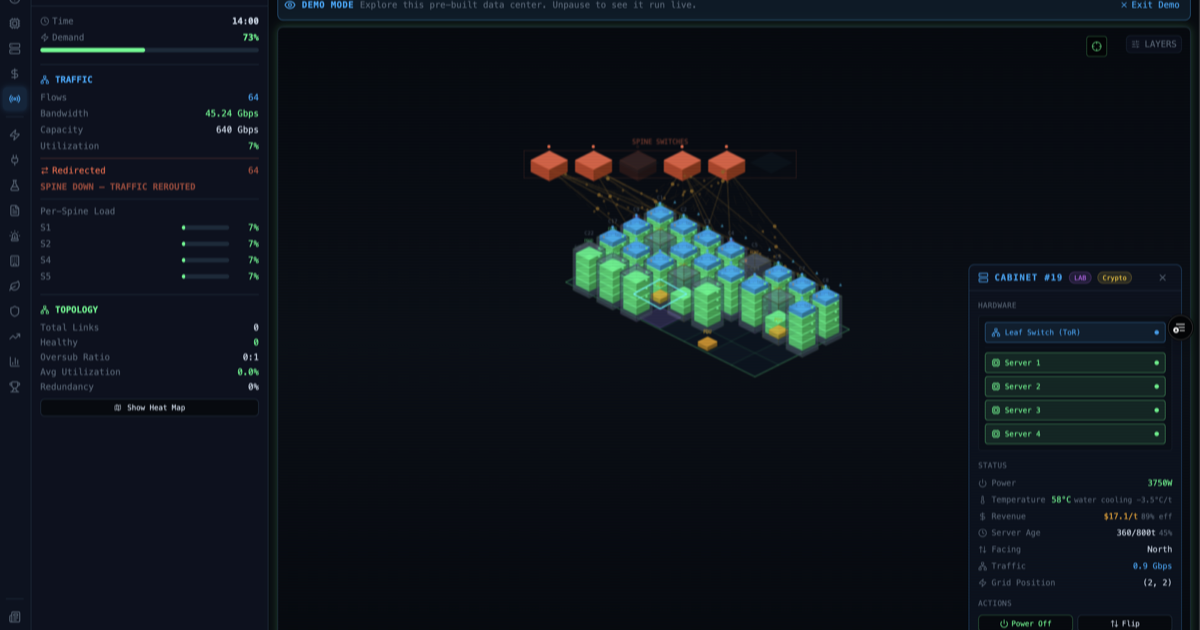
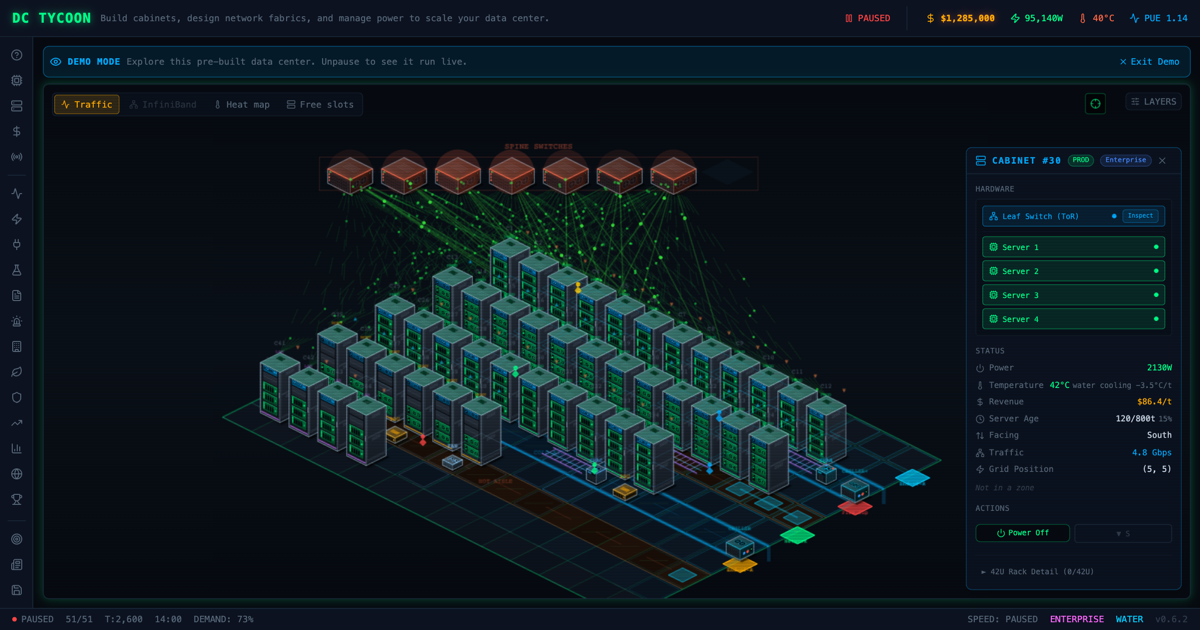
chore: refresh the social share image with the v2 hardware art
Recaptured from the enterprise demo (traffic on, a cabinet's detail panel
open) and added ?v=0.6.2 to the og:image, twitter:image and JSON-LD image
URLs so link previews fetch the new image instead of a cached copy.

Claude-Session: https://claude.ai/code/session_01GE7Uv9shEwnL7Ld6xk1bHz

diff --git a/index.html b/index.html
@@ -22,7 +22,7 @@
     <meta property="og:url" content="https://kevinreber.github.io/data-center-tycoon/" />
     <meta property="og:title" content="Data Center Tycoon — Free Browser Data Center Simulation Game" />
     <meta property="og:description" content="Build and manage your own data center empire. Place server racks, design network fabrics, balance power and cooling, handle incidents, and scale globally across 15 regions. Free, no download required." />
-    <meta property="og:image" content="https://kevinreber.github.io/data-center-tycoon/og-image.png" />
+    <meta property="og:image" content="https://kevinreber.github.io/data-center-tycoon/og-image.png?v=0.6.2" />
     <meta property="og:image:width" content="1200" />
     <meta property="og:image:height" content="630" />
     <meta property="og:image:alt" content="Isometric view of a data center with glowing server racks and network connections in Data Center Tycoon" />
@@ -33,7 +33,7 @@
     <meta name="twitter:card" content="summary_large_image" />
     <meta name="twitter:title" content="Data Center Tycoon — Free Browser Data Center Simulation Game" />
     <meta name="twitter:description" content="Build and manage your own data center empire. Place server racks, design network fabrics, balance power and cooling, and scale globally. Free, no download." />
-    <meta name="twitter:image" content="https://kevinreber.github.io/data-center-tycoon/og-image.png" />
+    <meta name="twitter:image" content="https://kevinreber.github.io/data-center-tycoon/og-image.png?v=0.6.2" />
     <meta name="twitter:image:alt" content="Isometric view of a data center with glowing server racks and network connections in Data Center Tycoon" />
 
     <!-- Structured Data: VideoGame (JSON-LD) -->
@@ -45,7 +45,7 @@
       "alternateName": ["Data Center Simulator", "Fabric Tycoon", "Server Tycoon"],
       "description": "A free browser-based isometric tycoon game where you build and manage a data center. Place server racks, design spine-leaf network fabrics, manage power and cooling systems, hire staff, handle incidents, and scale from a single cabinet to a global 15-region operation.",
       "url": "https://kevinreber.github.io/data-center-tycoon/",
-      "image": "https://kevinreber.github.io/data-center-tycoon/og-image.png",
+      "image": "https://kevinreber.github.io/data-center-tycoon/og-image.png?v=0.6.2",
       "author": {
         "@type": "Person",
         "name": "Kevin Reber",
